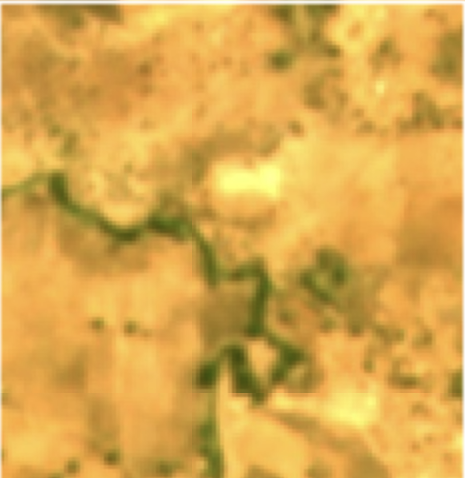
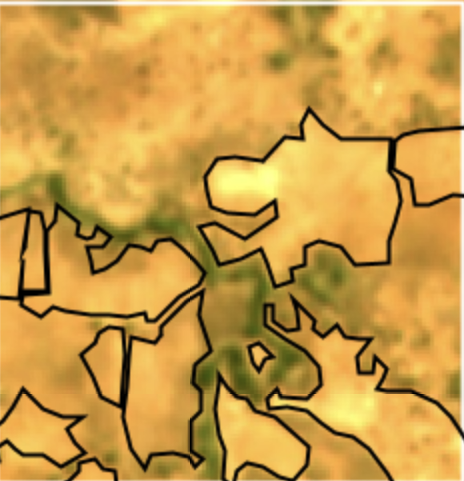
Update deeplearning.html and add prediction images

Changed region(s): [[0.0, 0.0, 1.0, 1.0]]

diff --git a/deeplearning.html b/deeplearning.html
@@ -10,8 +10,6 @@
 	<body class="is-preload">
 		<div id="body-container">
 
-		<!-- Wrapper -->
-			<!-- <div id="wrapper"> -->
 
 				<!-- Main -->
 					<div id="main">
@@ -78,7 +76,15 @@ landscapes that lead to false positives (e.g., wetland areas). In addition to im
 accuracy, the maps provide additional valuable information on field size, which can be used to
 understand the characteristics of the agricultural system. </p>
                   <span class="image main"><img src="images/model.png" alt="" /></span>
+									<div id="banner">
+									    <div class="inline-block">
+									        <img src ="images/prediction3.png" width="350" height="350">
+									    </div>
 
+									    <div class="inline-block">
+									        <img src ="images/prediction4.png" width="350" height="350">
+									    </div>
+									</div>
 
 								</section>
 								<!-- Footer -->
